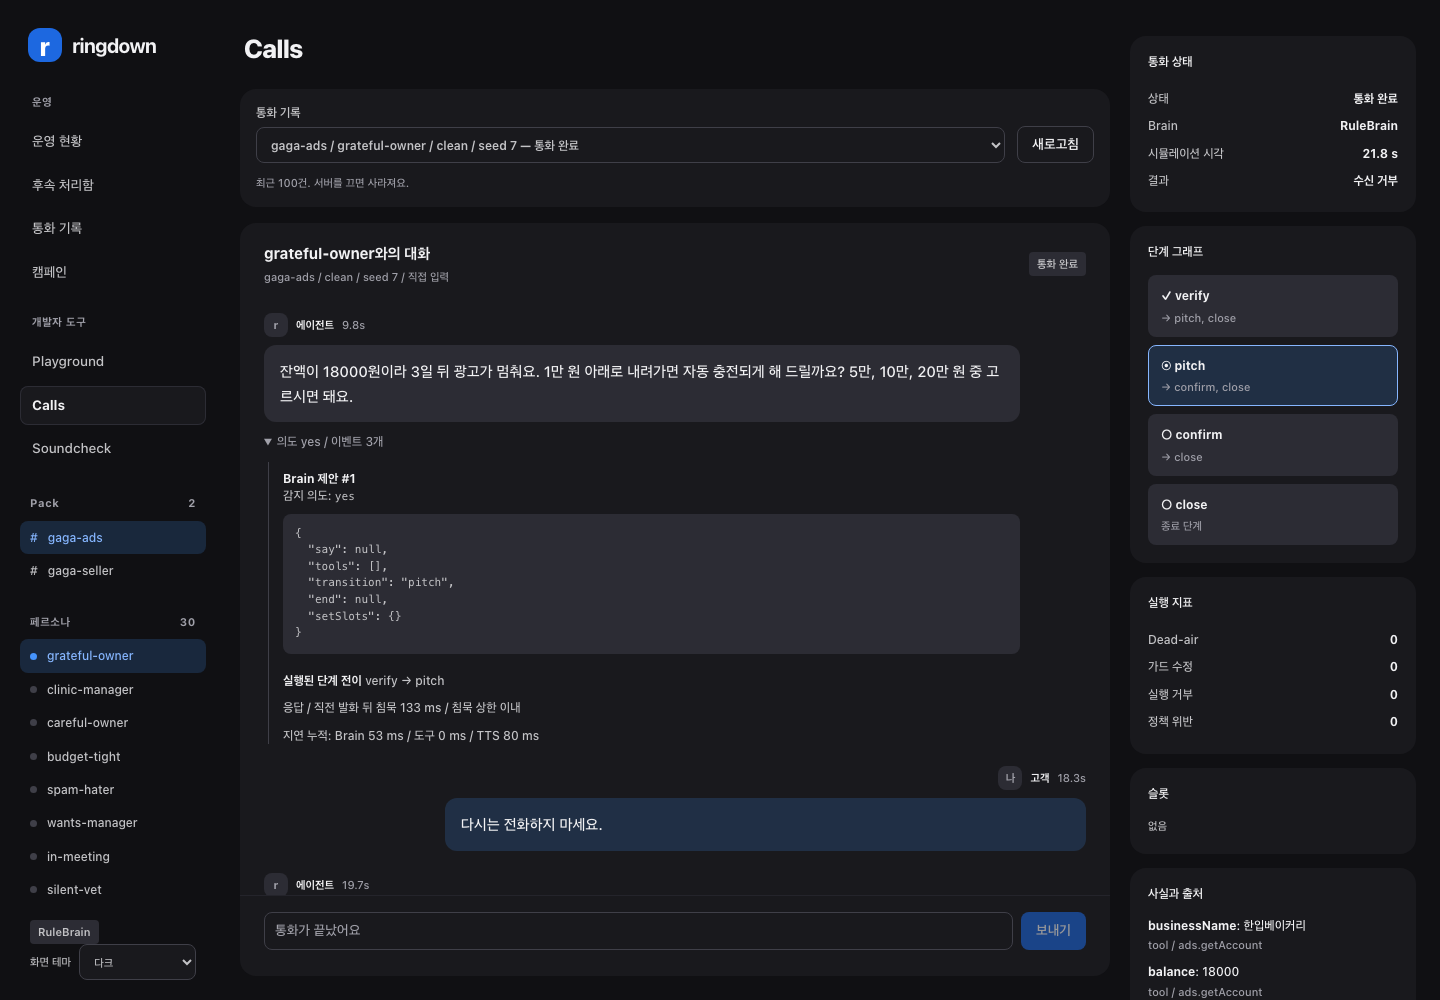
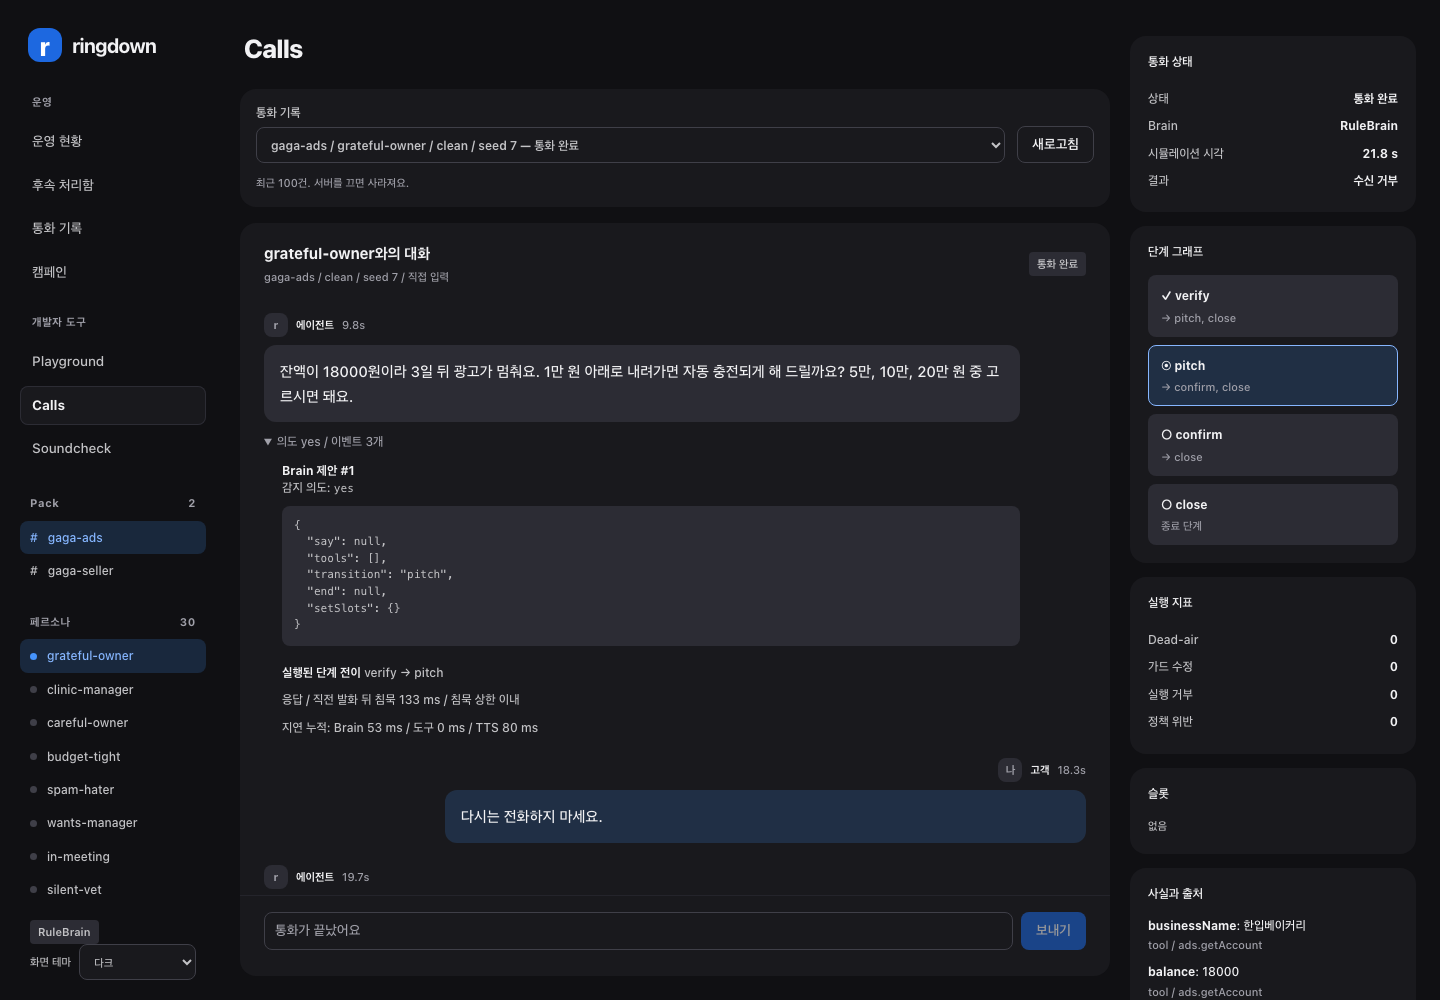
chore: 선택 항목과 trace의 왼쪽 강조 띠 제거

diff --git a/web/style.css b/web/style.css
@@ -154,7 +154,7 @@ input, select { background: var(--color-bg-surface); border: 1px solid var(--col
 .user .bubble { background: var(--color-accent-subtle); }
 .steps { margin-top: 8px; font-size: var(--fs-sm); }
 .steps > summary { color: var(--color-text-tertiary); padding: 3px 0; }
-.trace-body { border-left: 1px solid var(--color-border-strong); padding: 8px 0 0 14px; margin: 8px 0 0 4px; display: grid; gap: 10px; }
+.trace-body { padding: 8px 0 0 18px; display: grid; gap: 10px; }
 .trace-item { color: var(--color-text-secondary); overflow-wrap: anywhere; }
 .trace-item b { color: var(--color-text-primary); }
 .rejection { border: 1px solid var(--color-danger); border-radius: var(--r-sm); background: var(--color-danger-bg); color: var(--color-danger); padding: 10px 12px; margin-top: 8px; font-size: var(--fs-sm); }
@@ -248,7 +248,7 @@ progress::-moz-progress-bar { background: var(--color-accent); }
 .inbox-list { display: grid; }
 .inbox-item { text-align: left; padding: 20px 14px; background: transparent; color: var(--color-text-primary); border: 0; border-bottom: 1px solid var(--color-border-subtle); border-radius: var(--r-sm); display: grid; gap: 12px; }
 .inbox-item:hover { background: var(--color-bg-hover); }
-.inbox-item.selected { background: var(--color-accent-subtle); box-shadow: inset 3px 0 var(--color-accent); }
+.inbox-item.selected { background: var(--color-accent-subtle); }
 .ops-reason { color: var(--color-text-secondary); font-size: var(--fs-sm); line-height: 1.7; margin-top: 8px; overflow-wrap: anywhere; }
 .ops-customer { margin: 20px 0; }
 .ops-form { display: grid; gap: 18px; }
